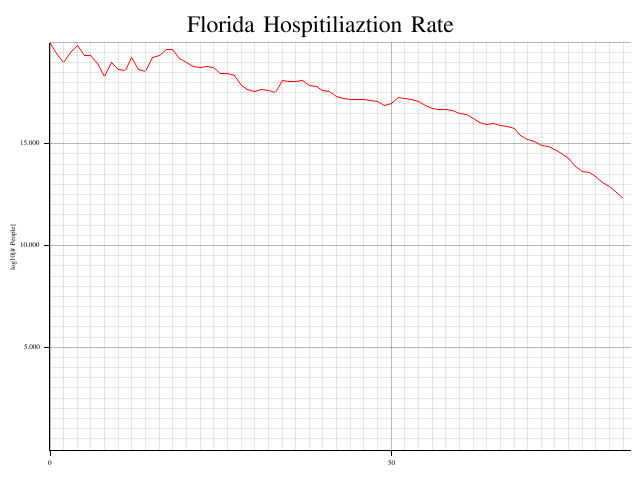
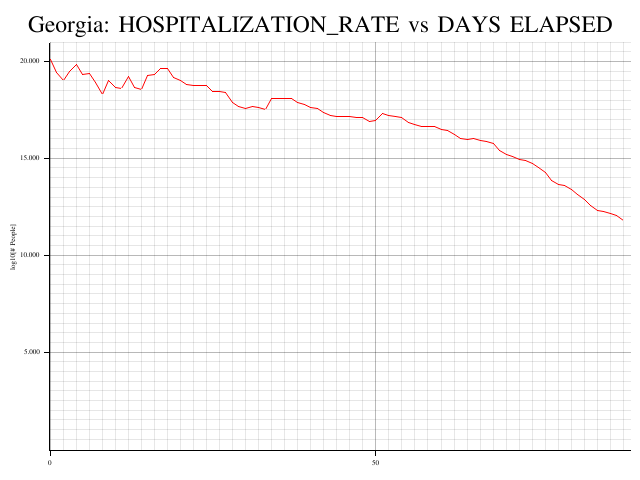
Commit before merging with master

Changed region(s): [[0.0312, 0.0312, 0.9688, 0.9375], [0.0312, 0.5, 0.0625, 0.5312]]

diff --git a/src/main.rs b/src/main.rs
@@ -1,7 +1,7 @@
 use plotters::prelude::*;
-use std::io::prelude::*;
 use serde::Deserialize;
 use std::fs::{read_dir, File};
+use std::io::prelude::*;
 // Province_State,
 // Country_Region,Last_Update,Lat,Long_,Confirmed,Deaths,
 // Recovered,Active,FIPS,Incident_Rate,People_Tested,People_Hospitalized,
@@ -14,14 +14,14 @@ struct DailyReport {
     Deaths: Option<u64>,
     Recovered: Option<u64>,
     People_Tested: Option<u64>,
-    Hospitalization_Rate: f64
+    Hospitalization_Rate: f64,
 }
 
 #[derive(Debug)]
 enum AppError {
     ConfigurationNotFound,
     InvalidConfiguration,
-    InvalidData
+    InvalidDatapath,
 }
 
 type AppResult<T> = Result<T, AppError>;
@@ -34,16 +34,29 @@ impl Default for DailyReport {
             Deaths: Some(0),
             Recovered: Some(0),
             People_Tested: Some(0),
-            Hospitalization_Rate: 0.0
+            Hospitalization_Rate: 0.0,
         }
     }
 }
 
-#[derive(Deserialize)]
+impl DailyReport {
+    fn get_prop(&self, name: &str) -> Option<f64> {
+        match name.to_ascii_lowercase().as_str() {
+            "confirmed" => Some(self.Confirmed as f64),
+            "deaths" => self.Deaths.map(|x| x as f64),
+            "recovered" => self.Recovered.map(|x| x as f64),
+            "people_tested" => self.People_Tested.map(|x| x as f64),
+            "hospitalization_rate" => Some(self.Hospitalization_Rate),
+            _ => None,
+        }
+    }
+}
+
+#[derive(Deserialize, Clone)]
 struct Config {
     state: String,
     statistic: String,
-    datapath: String
+    datapath: String,
 }
 
 impl std::cmp::PartialOrd for DailyReport {
@@ -53,48 +66,32 @@ impl std::cmp::PartialOrd for DailyReport {
 }
 
 fn load_configuration() -> AppResult<Config> {
-    let mut config_file = File::open("config.toml").map_err(|x| AppError::ConfigurationNotFound)?;
+    let mut config_file = File::open("config.toml").map_err(|_| AppError::ConfigurationNotFound)?;
     let mut raw_config = String::new();
     config_file.read_to_string(&mut raw_config).unwrap();
-    toml::from_str(&raw_config).map_err(|x| AppError::InvalidConfiguration)
+    toml::from_str(&raw_config).map_err(|_| AppError::InvalidConfiguration)
 }
-// 6, 7, 8
-// confirmed, deaths, recovered
-fn main() -> AppResult<()> {
-    let config = load_configuration();
-    
-    let data_path = config.datapath;
-    let mut confirmed: Vec<DailyReport> = Vec::new();
-    let reports = read_dir(data_path).expect("COVID_PATH invalid");
-    let mut num_reports = 0;
-    for file in reports {
-        if let Ok(d) = file {
-            num_reports += 1;
-            let data = File::open(d.path()).map_err(|x| AppError::InvalidConfiguration)?;
-            let mut rdr = csv::Reader::from_reader(data);
-            confirmed.push(
-                rdr.deserialize()
-                    .filter(|record: &Result<DailyReport, csv::Error>| {
-                        record.is_ok() && record.as_ref().unwrap().Province_State == config.state
-                    })
-                    .nth(0).unwrap_or(Ok(DailyReport::default())).unwrap()
-            )
-        }
-    }
-    confirmed.sort_by(|a,b| a.Confirmed.cmp(&b.Confirmed));
-    let confirmed: Vec<(i32, DailyReport)> = confirmed.into_iter().enumerate().map(|(a, b)| (a as i32, b)).collect();
-    println!("{:?}", confirmed);
+
+fn generate_plot(config: &Config, data: Vec<DailyReport>) {
     let root = BitMapBackend::new("output.png", (640, 480)).into_drawing_area();
     root.fill(&WHITE).unwrap();
     let root = root.margin(10, 10, 10, 10);
+
+    let max = data
+        .iter()
+        .map(|rep| rep.get_prop(&config.statistic).unwrap_or(0.0) as usize)
+        .max().unwrap_or(0) + 1;
     let mut chart = ChartBuilder::on(&root)
         // Set the caption of the chart
-        .caption("Florida Hospitiliaztion Rate", ("sans-serif", 40).into_font())
+        .caption(
+            format!("{}: {} vs DAYS ELAPSED", config.state, config.statistic.to_uppercase()),
+            ("sans-serif", 40).into_font(),
+        )
         // Set the size of the label region
         .x_label_area_size(20)
         .y_label_area_size(40)
         // Finally attach a coordinate on the drawing area and make a chart context
-        .build_ranged(0..num_reports, 0.0..20.0)
+        .build_ranged(0..data.len(), 0.0..max as f64)
         .unwrap();
 
     chart
@@ -105,11 +102,44 @@ fn main() -> AppResult<()> {
         .y_desc("log10[# People]")
         // We can also change the format of the label text
         .y_label_formatter(&|x| format!("{:.3}", x))
-        .draw().unwrap();
+        .draw()
+        .unwrap();
 
-    chart.draw_series(LineSeries::new(
-        confirmed.iter().map(|x| (x.0, (x.1).Hospitalization_Rate)),
-        &RED,
-    )).unwrap();
+    chart
+        .draw_series(LineSeries::new(
+            (0..data.len()).zip(
+                data.iter()
+                    .map(|rep| rep.get_prop(&config.statistic).unwrap_or(0.0)),
+            ),
+            &RED,
+        ))
+        .unwrap();
+}
+// 6, 7, 8
+// confirmed, deaths, recovered
+fn main() -> AppResult<()> {
+    let config = load_configuration()?;
+
+    let sources = read_dir(&config.datapath).map_err(|_| AppError::InvalidDatapath)?;
+    let mut reports: Vec<DailyReport> = Vec::new();
+    for file in sources {
+        if let Ok(d) = file {
+            let data = File::open(d.path()).map_err(|_| AppError::InvalidConfiguration)?;
+            let mut rdr = csv::Reader::from_reader(data);
+            reports.push(
+                rdr.deserialize()
+                    .filter(|record: &Result<DailyReport, csv::Error>| {
+                        record.is_ok() && record.as_ref().unwrap().Province_State == config.state
+                    })
+                    .nth(0)
+                    .unwrap_or(Ok(DailyReport::default()))
+                    .unwrap(),
+            )
+        }
+    }
+
+    reports.sort_by(|a, b| a.partial_cmp(&b).unwrap());
+
+    generate_plot(&config, reports);
     Ok(())
 }
